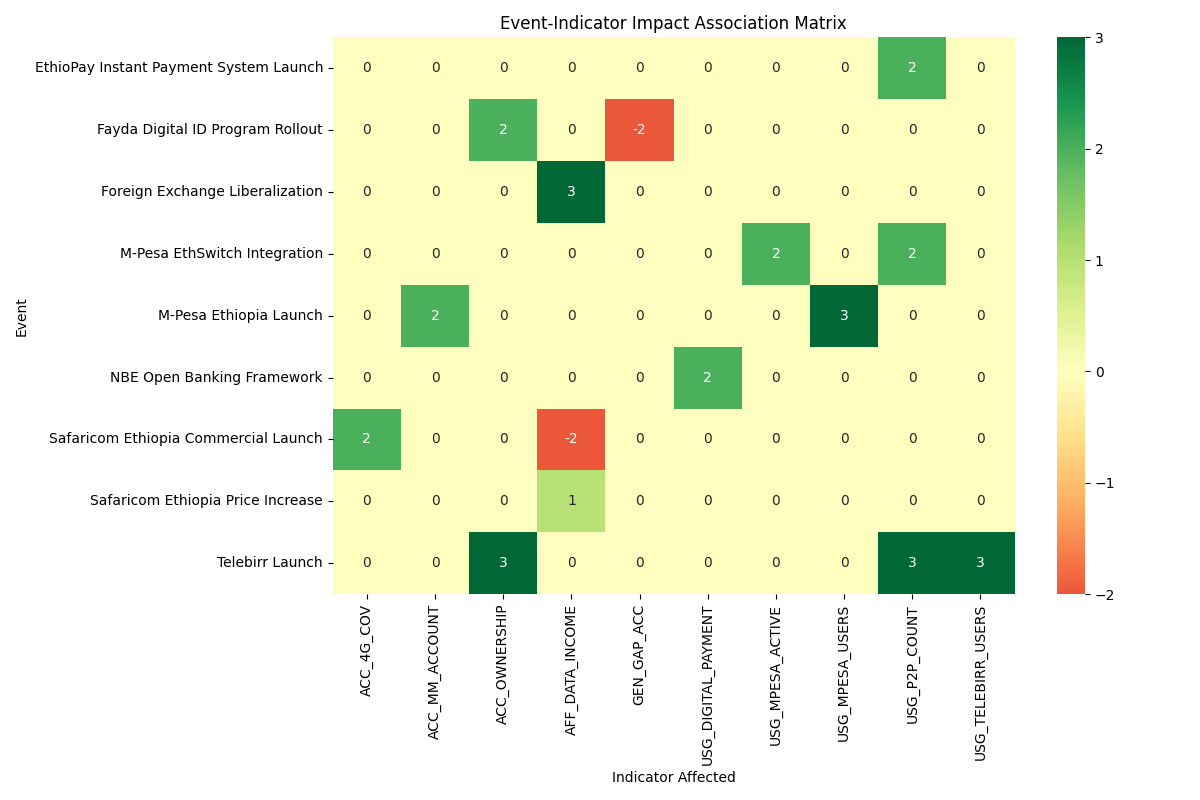
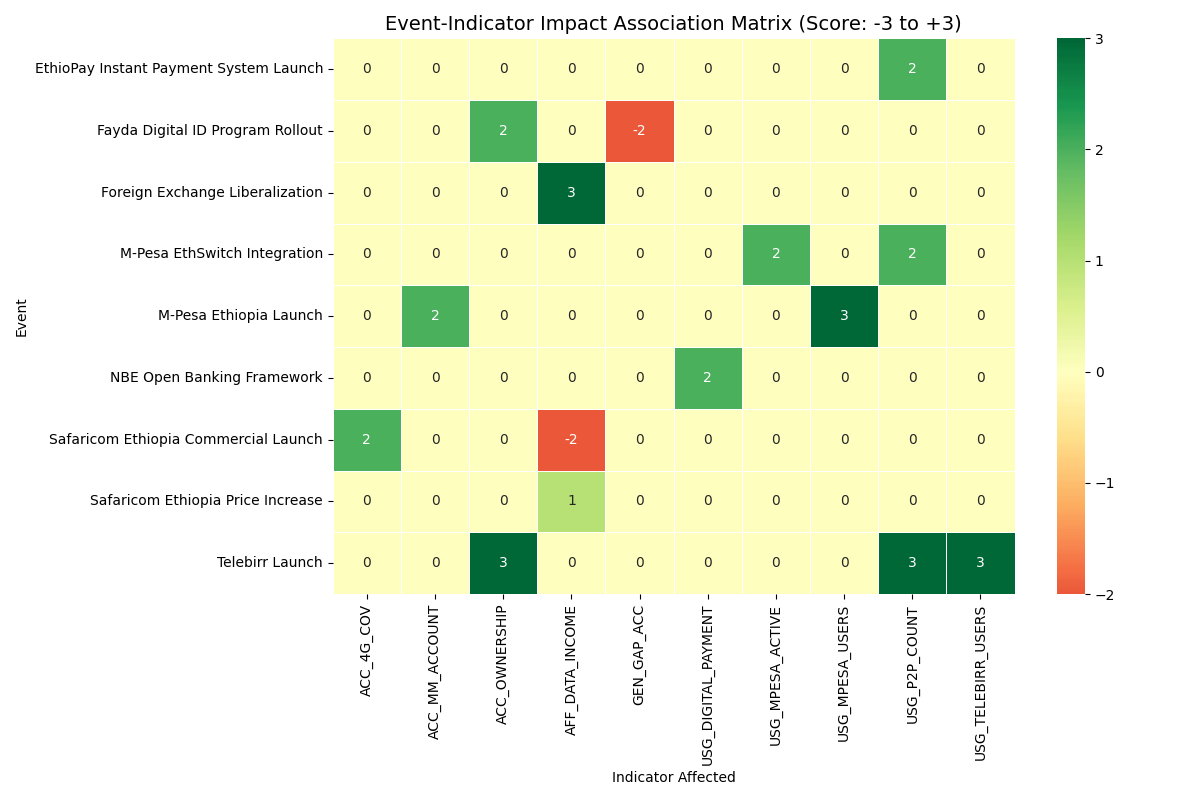
Complete Task 3: Event Impact Modeling and Association Matrix

diff --git a/src/impact_modeling.py b/src/impact_modeling.py
@@ -3,48 +3,92 @@ import numpy as np
 import seaborn as sns
 import matplotlib.pyplot as plt
 import os
+import logging
 
-df = pd.read_csv(r"C:\weak10\ethiopia-fi-forecast\data\raw\ethiopia_fi_unified_data.csv")
-output_dir = r"C:\weak10\ethiopia-fi-forecast\reports\figures"
-processed_dir = r"C:\weak10\ethiopia-fi-forecast\data\processed"
-os.makedirs(processed_dir, exist_ok=True)
+# Configure logging
+logging.basicConfig(level=logging.INFO, format='%(levelname)s: %(message)s')
 
-# Filter records
-impacts = df[df['record_type'] == 'impact_link']
-events = df[df['record_type'] == 'event']
+def run_impact_modeling():
+    try:
+        # Define paths
+        project_root = os.path.dirname(os.path.dirname(os.path.abspath(__file__)))
+        data_path = os.path.join(project_root, "data", "raw", "ethiopia_fi_unified_data.csv")
+        processed_dir = os.path.join(project_root, "data", "processed")
+        figures_dir = os.path.join(project_root, "reports", "figures")
+        
+        # Ensure directories exist
+        os.makedirs(processed_dir, exist_ok=True)
+        os.makedirs(figures_dir, exist_ok=True)
 
-# Join impacts with events
-impact_model = impacts.merge(events[['record_id', 'indicator']], left_on='parent_id', right_on='record_id', suffixes=('', '_event'))
+        # check data file
+        if not os.path.exists(data_path):
+            raise FileNotFoundError(f"Data file not found at {data_path}")
 
-# Map magnitudes to scores
-mag_map = {'high': 3, 'medium': 2, 'low': 1}
-dir_map = {'increase': 1, 'decrease': -1}
+        # Load data
+        df = pd.read_csv(data_path)
+        logging.info("Data loaded for impact modeling.")
 
-impact_model['magnitude_score'] = impact_model['impact_magnitude'].map(mag_map)
-impact_model['direction_score'] = impact_model['impact_direction'].map(dir_map)
-impact_model['impact_score'] = impact_model['magnitude_score'] * impact_model['direction_score']
+        # Filter records
+        impacts = df[df['record_type'] == 'impact_link'].copy()
+        events = df[df['record_type'] == 'event'].copy()
+        
+        if impacts.empty or events.empty:
+            logging.warning("No impact links or events found. Cannot build model.")
+            return
 
-# Create Association Matrix
-pivot_df = impact_model.pivot_table(
-    index='indicator_event', 
-    columns='related_indicator', 
-    values='impact_score',
-    aggfunc='sum'
-).fillna(0)
+        # Join impacts with events
+        # impact_link has 'parent_id' which matches event 'record_id'
+        impact_model = impacts.merge(
+            events[['record_id', 'indicator', 'observation_date']], 
+            left_on='parent_id', 
+            right_on='record_id', 
+            suffixes=('', '_event')
+        )
 
-# Visualize Heatmap
-plt.figure(figsize=(12, 8))
-sns.heatmap(pivot_df, annot=True, cmap='RdYlGn', center=0)
-plt.title("Event-Indicator Impact Association Matrix")
-plt.xlabel("Indicator Affected")
-plt.ylabel("Event")
-plt.tight_layout()
-plt.savefig(os.path.join(output_dir, "impact_matrix.png"))
-plt.close()
+        # Map magnitudes to numeric scores for the matrix
+        mag_map = {'high': 3, 'medium': 2, 'low': 1}
+        dir_map = {'increase': 1, 'decrease': -1}
 
-# Document Summary
-print("Top Events by Impact Count:")
-print(impact_model['indicator_event'].value_counts())
+        impact_model['magnitude_score'] = impact_model['impact_magnitude'].map(mag_map).fillna(1)
+        impact_model['direction_score'] = impact_model['impact_direction'].map(dir_map).fillna(1)
+        impact_model['total_impact_score'] = impact_model['magnitude_score'] * impact_model['direction_score']
 
-impact_model.to_csv(r"C:\weak10\ethiopia-fi-forecast\data\processed\event_impact_model.csv", index=False)
-print("Impact modeling results saved to data/processed/")
+        logging.info(f" modeled {len(impact_model)} impact relationships.")
+
+        # Create Association Matrix (Event vs Indicator)
+        # We use 'indicator_event' (the name of the event) as index
+        pivot_df = impact_model.pivot_table(
+            index='indicator_event', 
+            columns='related_indicator', 
+            values='total_impact_score',
+            aggfunc='sum' # In case an event has multiple links to same indicator? Unlikely but safe.
+        ).fillna(0)
+
+        # Save Matrix
+        matrix_path = os.path.join(processed_dir, "event_indicator_matrix.csv")
+        pivot_df.to_csv(matrix_path)
+        logging.info(f"Association Matrix saved to {matrix_path}")
+
+        # Visualize Heatmap
+        plt.figure(figsize=(12, 8))
+        sns.heatmap(pivot_df, annot=True, cmap='RdYlGn', center=0, linewidths=.5)
+        plt.title("Event-Indicator Impact Association Matrix (Score: -3 to +3)", fontsize=14)
+        plt.xlabel("Indicator Affected")
+        plt.ylabel("Event")
+        plt.tight_layout()
+        pivot_img_path = os.path.join(figures_dir, "impact_matrix.png")
+        plt.savefig(pivot_img_path)
+        plt.close()
+        logging.info(f"Impact heatmap saved to {pivot_img_path}")
+        
+        # Save the detailed joined model for forecasting script
+        model_path = os.path.join(processed_dir, "impact_model_detailed.csv")
+        impact_model.to_csv(model_path, index=False)
+        logging.info(f"Detailed impact model saved to {model_path}")
+
+    except Exception as e:
+        logging.error(f"Impact modeling failed: {e}")
+        exit(1)
+
+if __name__ == "__main__":
+    run_impact_modeling()
